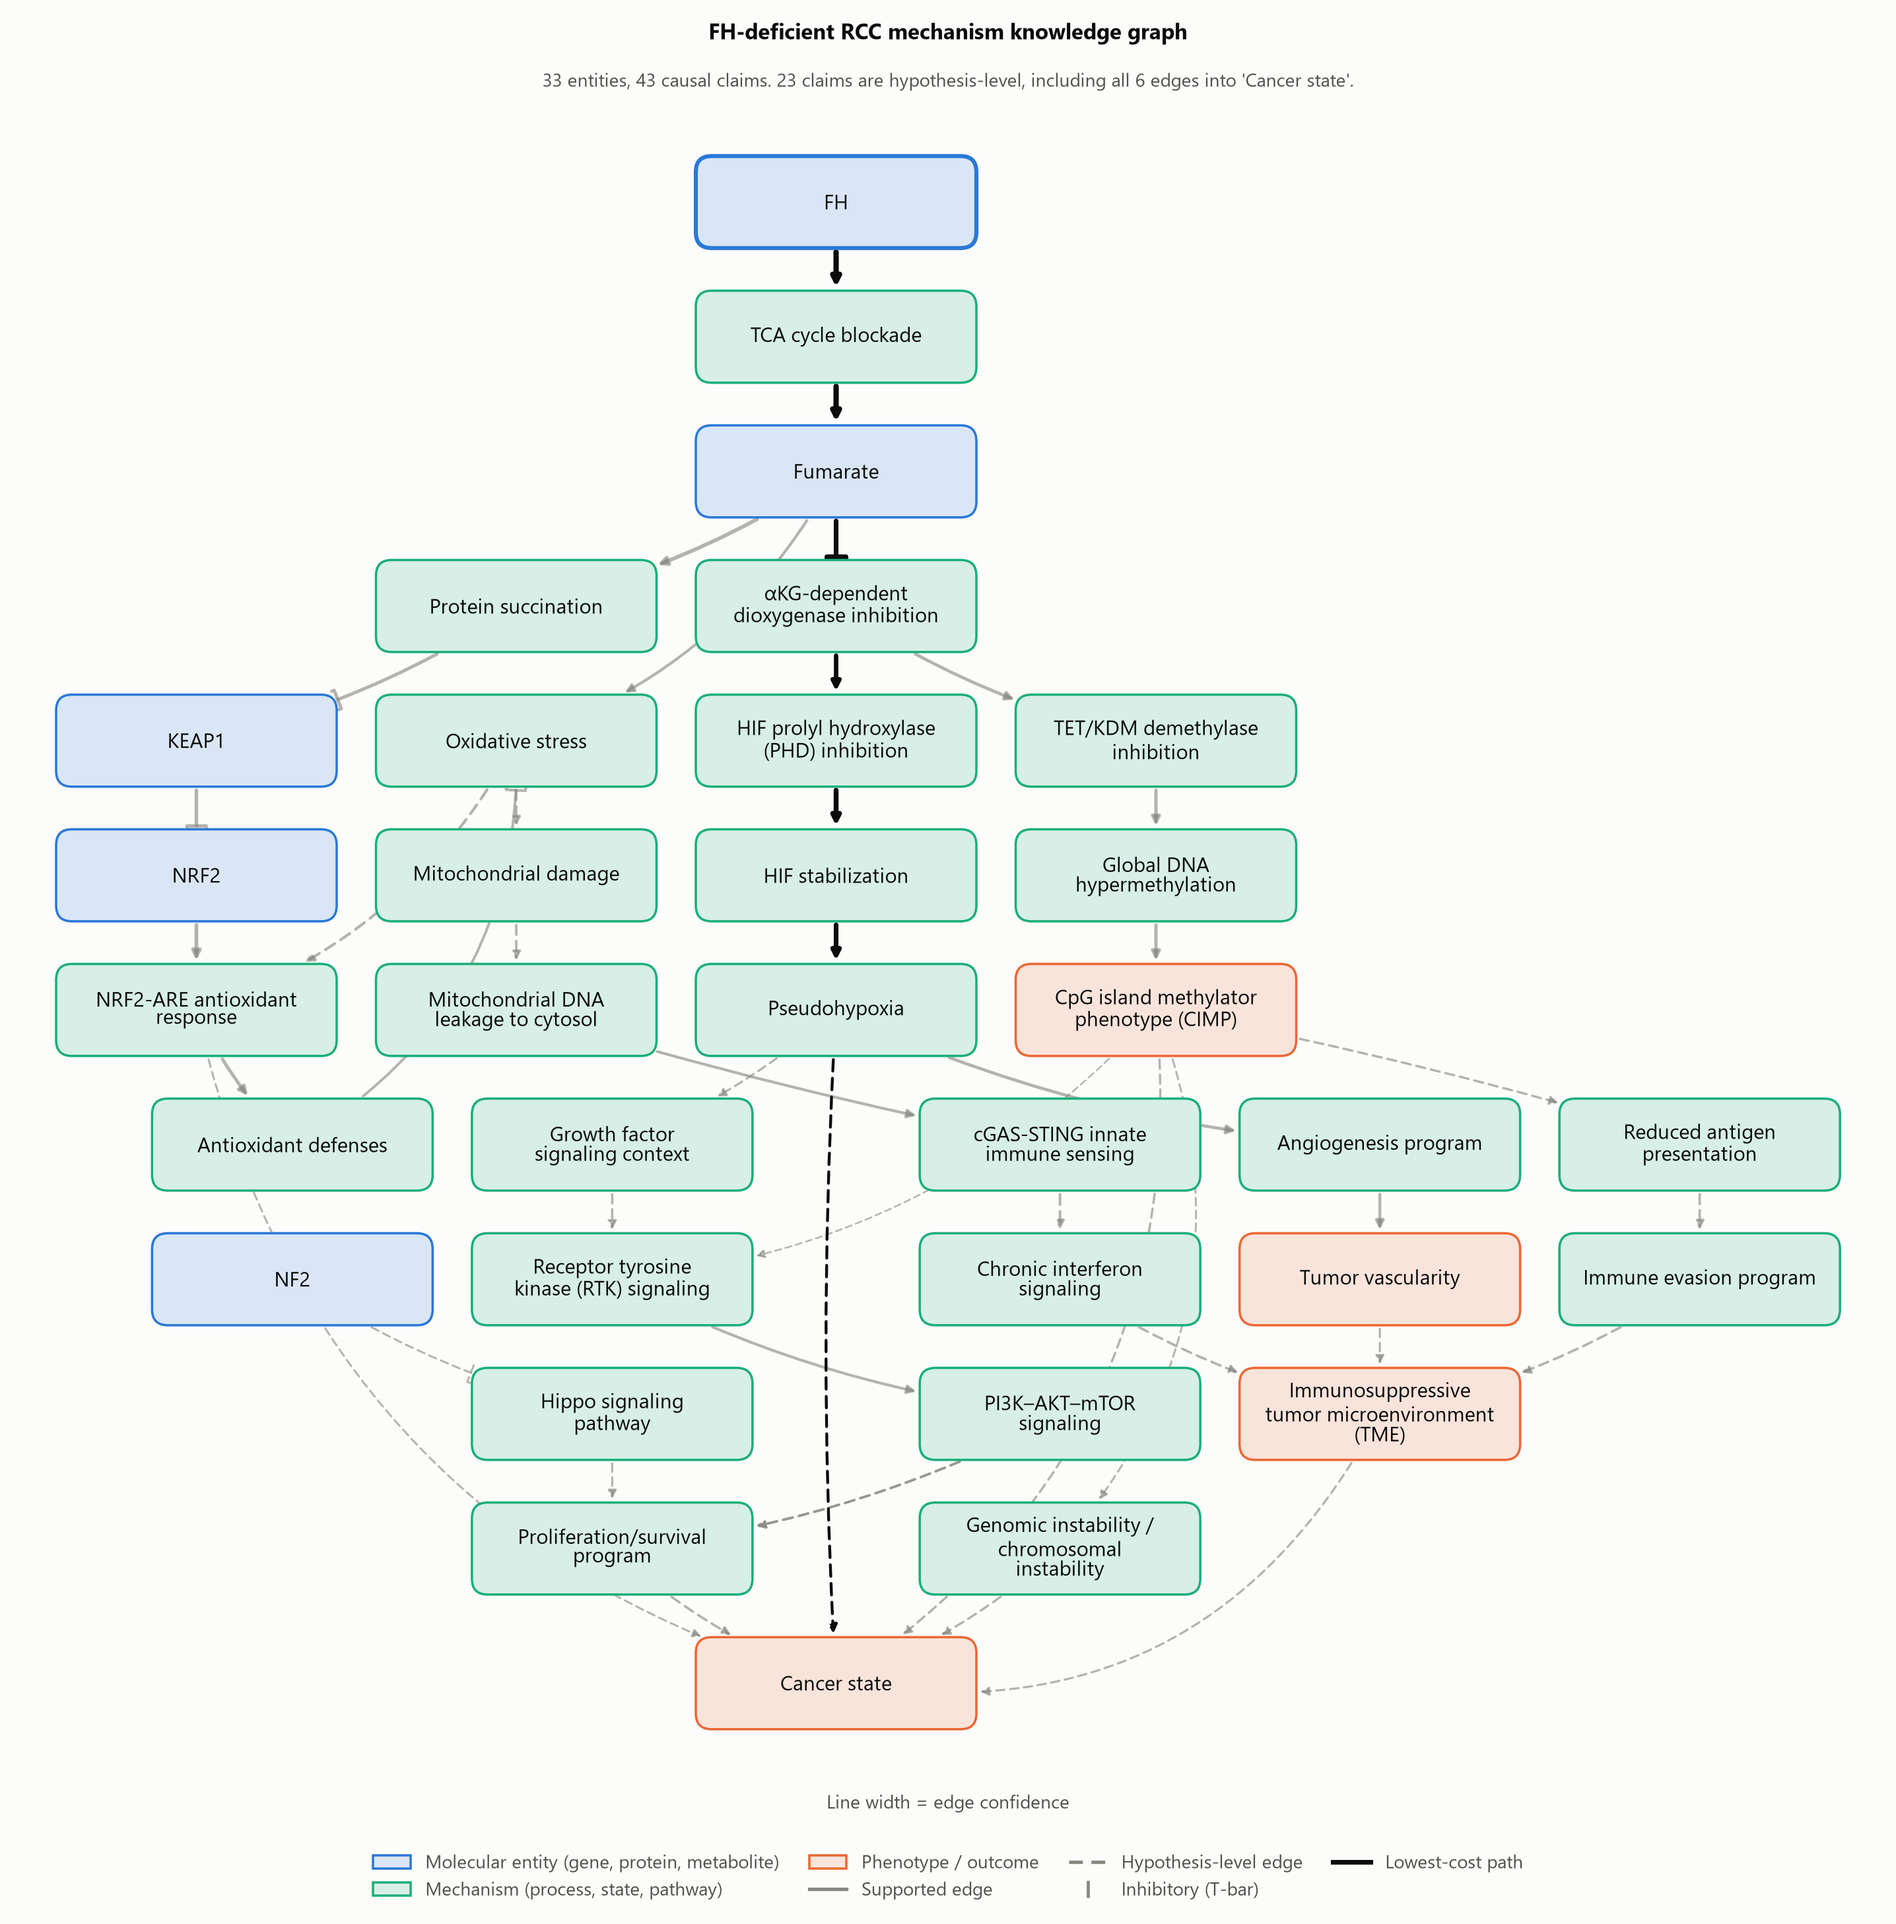
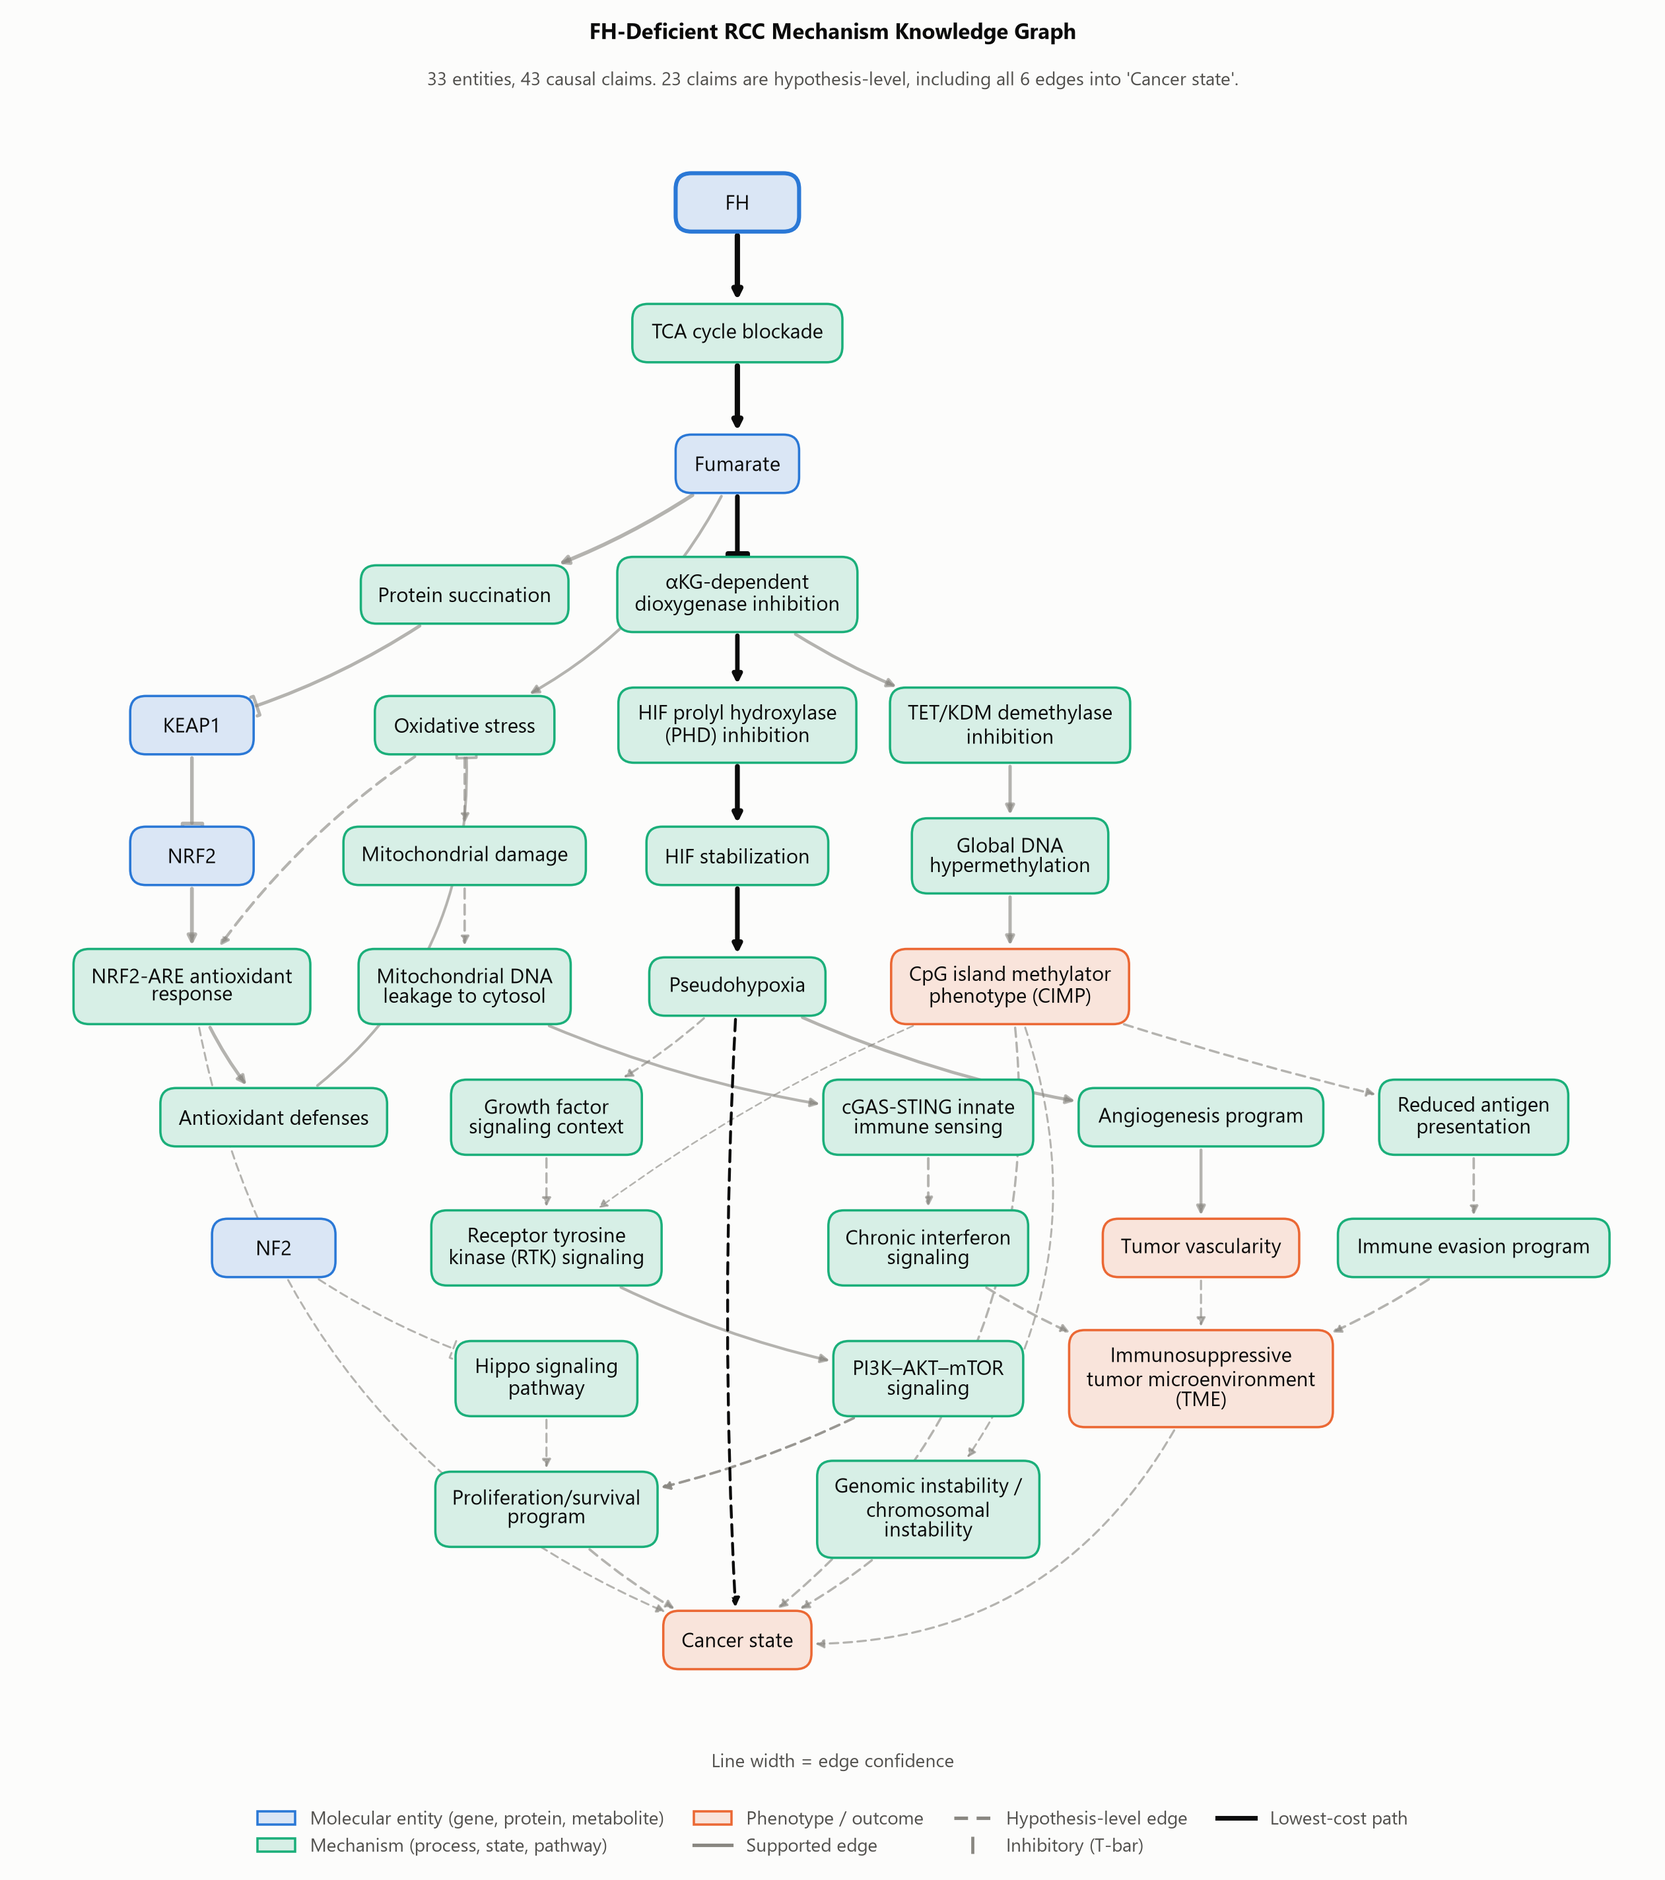
Text-fitted flow chart boxes and simpler evidence audit

diff --git a/src/fhrcc_mechanismkg/viz.py b/src/fhrcc_mechanismkg/viz.py
@@ -86,8 +86,7 @@ def _route_rad(
     dst: str,
     xy: Dict[str, Tuple[float, float]],
     default: float,
-    bw: float,
-    bh: float,
+    sizes: Dict[str, Tuple[float, float]],
     x_bounds: Tuple[float, float],
     margin: float = 0.03,
 ) -> float:
@@ -102,7 +101,8 @@ def _route_rad(
             for nid, (nx, ny) in xy.items():
                 if nid in (src, dst):
                     continue
-                if abs(px - nx) < bw / 2 + margin and abs(py - ny) < bh / 2 + margin:
+                w, h = sizes[nid]
+                if abs(px - nx) < w / 2 + margin and abs(py - ny) < h / 2 + margin:
                     hits += 1
         return hits
 
@@ -113,6 +113,22 @@ def _route_rad(
             if cost(rad) == 0:
                 return rad
     return default  # no clean route exists; a half-clearing detour only adds clutter
+
+
+def _node_sizes(graph: Graph, labels: Dict[str, str]) -> Dict[str, Tuple[float, float]]:
+    """Box (width, height) in inches for each node, fitted to its wrapped label."""
+    import matplotlib.pyplot as plt
+
+    mfig = plt.figure(dpi = 100)
+    renderer = mfig.canvas.get_renderer()
+    sizes: Dict[str, Tuple[float, float]] = {}
+    for nid in graph.nodes:
+        t = mfig.text(0, 0, labels[nid], fontsize = NODE_PT, linespacing = 1.15)
+        bb = t.get_window_extent(renderer)
+        sizes[nid] = (max(bb.width / 100 + 0.36, 1.1), max(bb.height / 100 + 0.28, 0.52))
+        t.remove()
+    plt.close(mfig)
+    return sizes
 
 
 def _panel_header(ax, title: str, subtitle: str) -> None:
@@ -132,23 +148,40 @@ def draw_overview(
     from matplotlib.patches import FancyArrowPatch, FancyBboxPatch, Patch
 
     pos = layered_layout(graph, spine = highlight.node_ids() if highlight else None)
-    sx, sy, bw, bh = 2.85, 1.2, 2.5, 0.82
+    labels = {nid: textwrap.fill(n.name, 22) for nid, n in graph.nodes.items()}
+    sizes = _node_sizes(graph, labels)
+    max_w = max(w for w, _ in sizes.values())
+    max_h = max(h for _, h in sizes.values())
+    # Grid spacing is the tightest that still leaves a gap between every pair of neighbors
+    by_layer: Dict[float, List[str]] = {}
+    for nid, (px, py) in pos.items():
+        by_layer.setdefault(py, []).append(nid)
+    need_x = [
+        ((sizes[a][0] + sizes[b][0]) / 2 + 0.3) / (pos[b][0] - pos[a][0])
+        for row in by_layer.values()
+        for a, b in zip(sorted(row, key = lambda n: pos[n][0]), sorted(row, key = lambda n: pos[n][0])[1:])
+    ]
+    tallest = {py: max(sizes[n][1] for n in row) for py, row in by_layer.items()}
+    layers_sorted = sorted(tallest)
+    need_y = [(tallest[a] + tallest[b]) / 2 + 0.3 for a, b in zip(layers_sorted, layers_sorted[1:])]
+    sx, sy = max(need_x + [1.0]), max(need_y + [0.8])
     xy = {n: (p[0] * sx, -p[1] * sy) for n, p in pos.items()}
     xs = [p[0] for p in xy.values()]
     ys = [p[1] for p in xy.values()]
-    width = max(xs) - min(xs) + bw + 1.0
-    height = (max(ys) - min(ys) + bh + 0.9) / 0.87  # axes occupy 87% of the figure height
+    width = max(xs) - min(xs) + max_w + 1.0
+    height = (max(ys) - min(ys) + max_h + 0.9) / 0.87  # axes occupy 87% of the figure height
 
     fig, ax = plt.subplots(figsize = (width, height))
-    x_bounds = (min(xs) - bw / 2 - 0.5, max(xs) + bw / 2 + 0.5)
+    x_bounds = (min(xs) - max_w / 2 - 0.5, max(xs) + max_w / 2 + 0.5)
     ax.set_xlim(*x_bounds)
-    ax.set_ylim(min(ys) - bh / 2 - 0.25, max(ys) + bh / 2 + 0.25)
+    ax.set_ylim(min(ys) - max_h / 2 - 0.25, max(ys) + max_h / 2 + 0.25)
     ax.set_aspect("equal")
     ax.axis("off")
 
     patches: Dict[str, FancyBboxPatch] = {}
     for n in graph.nodes.values():
         x, y = xy[n.id]
+        bw, bh = sizes[n.id]
         color = GROUP_COLOR[NODE_GROUPS.get(n.type, "mechanism")]
         root = "root_event" in n.tags
         p = FancyBboxPatch(
@@ -163,15 +196,14 @@ def draw_overview(
         )
         ax.add_patch(p)
         patches[n.id] = p
-        label = textwrap.fill(n.name, 22)
-        ax.text(x, y, label, ha = "center", va = "center", fontsize = NODE_PT, color = INK, zorder = 4, linespacing = 1.15)
+        ax.text(x, y, labels[n.id], ha = "center", va = "center", fontsize = NODE_PT, color = INK, zorder = 4, linespacing = 1.15)
 
     on_path: Set[Tuple[str, str, str]] = {_edge_id(s.edge) for s in highlight.steps} if highlight else set()
     for e in sorted(graph.edges, key = lambda e: _edge_id(e) in on_path):
         (x1, y1), (x2, y2) = xy[e.subject], xy[e.object]
         span = abs(pos[e.object][1] - pos[e.subject][1])
         default = 0.0 if span <= 1 and abs(x2 - x1) < 0.1 else (0.10 if x2 >= x1 else -0.10) * min(span, 3)
-        rad = _route_rad(e.subject, e.object, xy, default, bw, bh, x_bounds)
+        rad = _route_rad(e.subject, e.object, xy, default, sizes, x_bounds)
         hi = _edge_id(e) in on_path
         color = INK if hi else MUTED
         arrow = FancyArrowPatch(
@@ -216,7 +248,6 @@ def draw_overview(
     fig.text(0.5, 0.06, "Line width = edge confidence", ha = "center", fontsize = OVERVIEW_LEGEND_PT, color = INK2)
     fig.subplots_adjust(left = 0, right = 1, top = 0.945, bottom = 0.075)
     _save(fig, out_path)
-
 
 def _short(graph: Graph, node_id: str, width: int = 34) -> str:
     return textwrap.shorten(graph.nodes[node_id].name, width = width, placeholder = "…")
@@ -325,13 +356,13 @@ def draw_evidence_audit(graph: Graph, best: PathResult, out_path: str, source_na
     ypos = list(range(len(levels)))
     a1.barh(ypos, vals, height = 0.5, color = [ORANGE if l == "hypothesis" else BLUE for l in levels], edgecolor = SURFACE, lw = 1.5)
     for y, v in zip(ypos, vals):
-        a1.text(v + 0.3, y, str(v), va = "center", fontsize = LABEL_PT, color = INK2)
+        a1.text(v + 0.3, y, f"{v} ({v / len(graph.edges):.0%})", va = "center", fontsize = LABEL_PT, color = INK2)
     a1.set_yticks(ypos)
     a1.set_yticklabels([l.replace("_", " ") for l in levels])
     a1.set_xlim(0, 25)
     a1.set_xlabel("Number of Edges", labelpad = 8)
     sub = f"No edges rest on {_join_or(absent)} evidence" if absent else "Evidence level of every edge"
-    _panel_header(a1, f'{counts["hypothesis"]} of {len(graph.edges)} Edges Are Hypotheses', sub)
+    _panel_header(a1, "Edges by Evidence Level", sub)
     _clean_axes(a1)
 
     # Right: one bar per step along the path, first step at the top, labeled by the node it leads into
@@ -341,7 +372,7 @@ def draw_evidence_audit(graph: Graph, best: PathResult, out_path: str, source_na
     for y, s in zip(ypos2, steps):
         a2.text(s.edge.weight + 0.015, y, f"{s.edge.weight:.2f}", va = "center", fontsize = LABEL_PT, color = INK2)
     a2.set_yticks(ypos2)
-    a2.set_yticklabels([f"{i}. {graph.nodes[s.edge.object].name}" for i, s in enumerate(steps, 1)])
+    a2.set_yticklabels([graph.nodes[s.edge.object].name for s in steps])
     a2.set_xlim(0, 1.0)
     a2.set_xlabel("Edge Confidence (Weight)", labelpad = 8)
     a2.set_ylabel("Path Step (Edge Into Node)", labelpad = 8)
@@ -359,6 +390,9 @@ def _save(fig, out_path: str) -> None:
     import matplotlib.pyplot as plt
 
     plt.close(fig)
+
+
+
 
 
 

diff --git a/tests/test_analysis_layout_web.py b/tests/test_analysis_layout_web.py
@@ -1,4 +1,4 @@
-import pytest
+import pytest
 from fhrcc_mechanismkg import web
 from fhrcc_mechanismkg.analysis import convergence, evidence_counts, path_summary, reachable
 from fhrcc_mechanismkg.graph import Graph
@@ -86,10 +86,12 @@ def test_edge_routing_bends_around_boxes_in_the_way():
 
     xy = {"a": (0.0, 0.0), "blocker": (0.0, -1.0), "b": (0.0, -2.0), "free": (5.0, -1.0)}
     bounds = (-4.0, 9.0)
-    assert viz._route_rad("a", "b", xy, 0.0, 0.5, 0.7, bounds) != 0.0
-    assert viz._route_rad("a", "free", xy, 0.1, 0.5, 0.7, bounds) == 0.1  # nothing in the way, keep default
+    narrow = {k: (0.5, 0.7) for k in xy}
+    assert viz._route_rad("a", "b", xy, 0.0, narrow, bounds) != 0.0
+    assert viz._route_rad("a", "free", xy, 0.1, narrow, bounds) == 0.1  # nothing in the way, keep default
     wide = {"a": (0.0, 0.0), "blocker": (0.0, -1.0), "b": (0.0, -2.0)}
-    assert viz._route_rad("a", "b", wide, 0.0, 30.0, 0.7, bounds) == 0.0  # no clean route, keep default
+    huge = {k: (30.0, 0.7) for k in wide}
+    assert viz._route_rad("a", "b", wide, 0.0, huge, bounds) == 0.0  # no clean route, keep default
 
 
 def test_static_figures_render(full_graph, tmp_path):
@@ -101,3 +103,4 @@ def test_static_figures_render(full_graph, tmp_path):
     viz.draw_path_comparison(full_graph, paths, str(tmp_path / "p.png"), "FH", "Cancer")
     viz.draw_evidence_audit(full_graph, paths[0], str(tmp_path / "e.png"), "FH", "Cancer")
     assert all((tmp_path / f).stat().st_size > 10_000 for f in ("o.png", "p.png", "e.png"))
+

diff --git a/scripts/build_showcase.py b/scripts/build_showcase.py
@@ -1,4 +1,4 @@
-"""Regenerate every showcase artifact from data/fhrcc_pathway_v1.json.
+"""Regenerate every showcase artifact from data/fhrcc_pathway_v1.json.
 
     python scripts/build_showcase.py
 
@@ -71,7 +71,7 @@ def main() -> None:
             g,
             "docs/figures/graph_overview.png",
             highlight = best,
-            title = "FH-deficient RCC mechanism knowledge graph",
+            title = "FH-Deficient RCC Mechanism Knowledge Graph",
             subtitle = f"{len(g.nodes)} entities, {len(g.edges)} causal claims. {n_hyp} claims are hypothesis-level, including all {len(into)} edges into '{tgt_name}'.",
         )
         viz.draw_path_comparison(g, paths, "docs/figures/path_comparison.png", src_name, tgt_name)
@@ -85,3 +85,4 @@ def main() -> None:
 
 if __name__ == "__main__":
     main()
+
